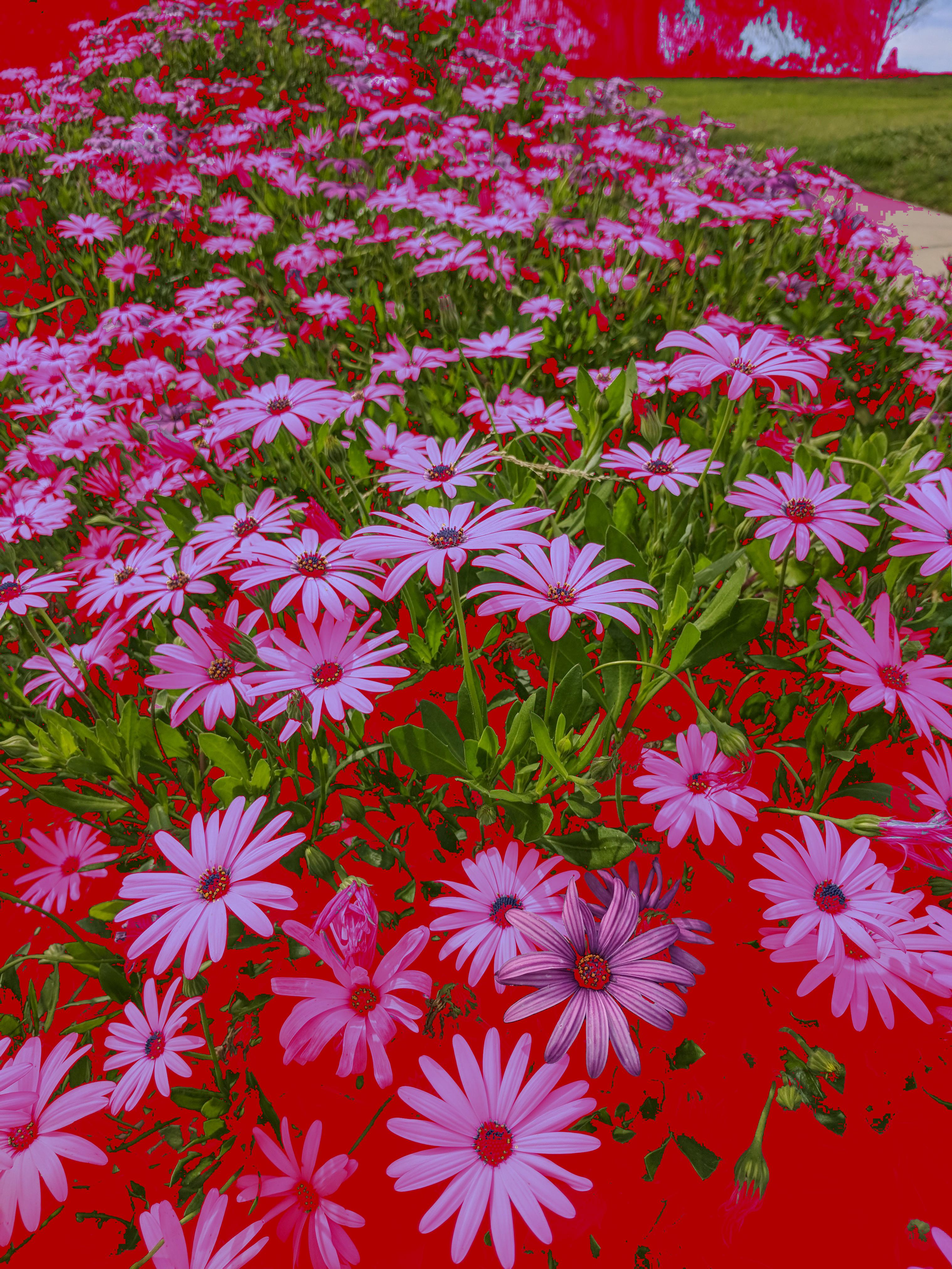
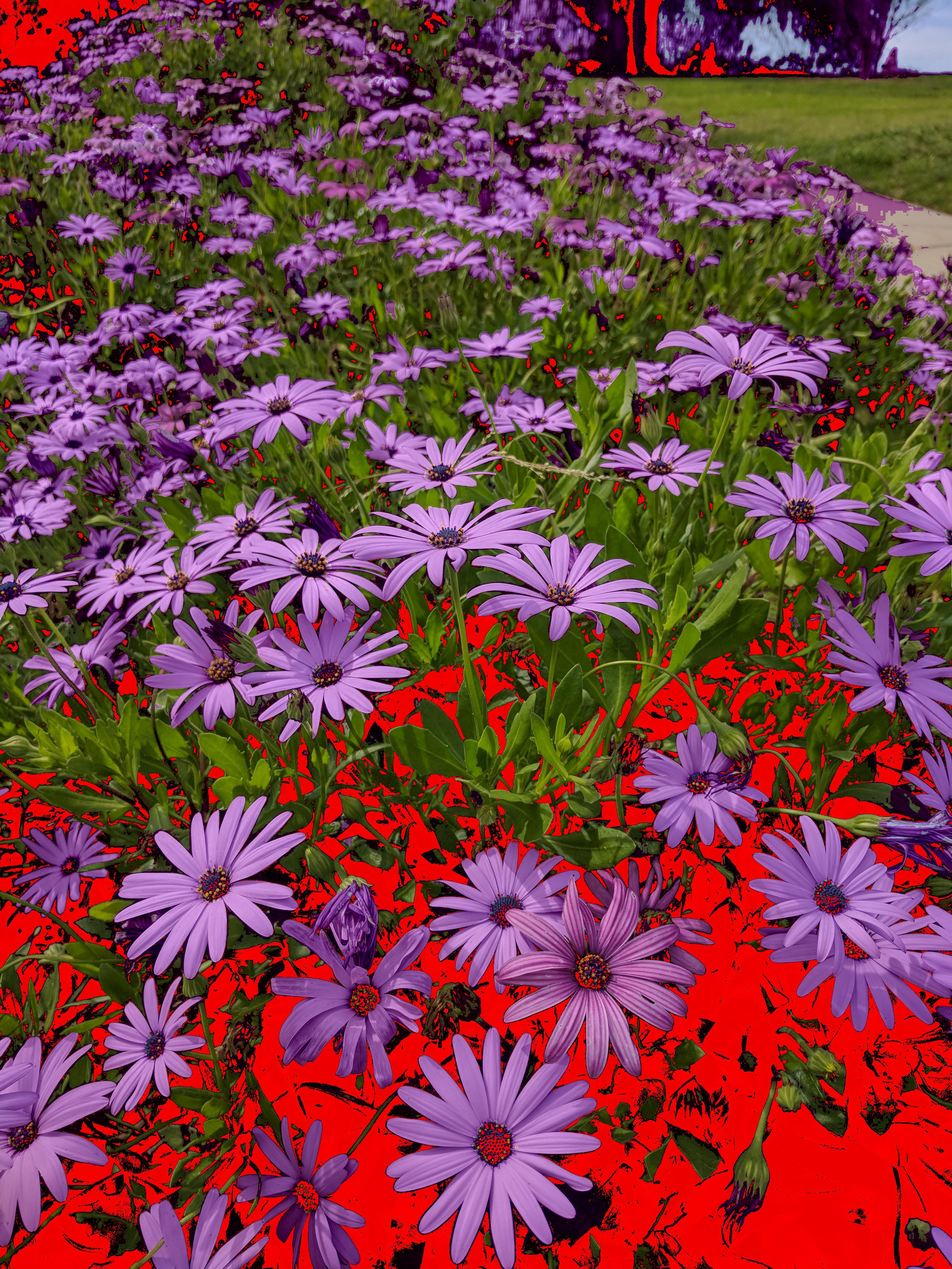
done

diff --git a/PerformanceSis/thread_graph_thingy/Main.java b/PerformanceSis/thread_graph_thingy/Main.java
@@ -19,16 +19,30 @@ public class Main {
         // recolorirUmaThread(ImagemOriginal, ImagemResultado);
 
         File outputFile = new File(ARQUIVO_DESTINO);
-        for (int i = 1; i <= 15; i++) {
+        int numberOfThreads = 6;
+        for (int i = 1; i <= 10; i++) {
             long startTime = System.currentTimeMillis();
-            recolorMultithreaded(ImagemOriginal, ImagemResultado, i);
+            recolorMultithreaded(ImagemOriginal, ImagemResultado, numberOfThreads, i);
             long endTime = System.currentTimeMillis();
             long duration = endTime - startTime;
             ImageIO.write(ImagemResultado, "jpg", outputFile);
-            // System.out.println(String.valueOf(duration));
             System.out.println("Tempo de execução: " + duration + "ms");
-            System.err.println("Threads usadas: " + i);
+            System.err.println("Threads usadas: " + 6);
+            System.out.println("Imagem reudiza em: " + i + "x");
+        }
 
+        System.out.println("Processando com uma thread");
+
+        // single-threaded example
+        for (int i = 1; i <= 10; i++) {
+            long startTime = System.currentTimeMillis();
+            recolorMultithreaded(ImagemOriginal, ImagemResultado, 1, i);
+            long endTime = System.currentTimeMillis();
+            long duration = endTime - startTime;
+            ImageIO.write(ImagemResultado, "jpg", outputFile);
+            System.out.println("Tempo de execução: " + duration + "ms");
+            System.err.println("Threads usadas: " + 1);
+            System.out.println("Imagem reudiza em: " + i + "x");
         }
         // int numberOfThreads = 4;
         // recolorMultithreaded(ImagemOriginal, ImagemResultado, numberOfThreads);
@@ -54,12 +68,11 @@ public class Main {
     }
 
     public static void recolorMultithreaded(BufferedImage ImagemOriginal,
-            BufferedImage ImagemResultado, int numberOfThreads) {
+            BufferedImage ImagemResultado, int numberOfThreads, int divideBy) {
         // lista de threads usadas pra executar o código
         List<Thread> threads = new ArrayList<>();
-        int width = ImagemOriginal.getWidth();
-        // fracionando a imagem por altura, separando pelo número de threads
-        int height = ImagemOriginal.getHeight() / numberOfThreads;
+        int width = ImagemOriginal.getWidth() / divideBy;
+        int height = ImagemOriginal.getHeight() / (numberOfThreads * divideBy);
 
         for (int i = 0; i < numberOfThreads; i++) {
             final int threadMultiplier = i;
@@ -113,9 +126,8 @@ public class Main {
         // vermelho em 10; o de verde diminuir 80, azul dimiuir 20
         if (ehNivelDeCinza(red, green, blue)) {
             // para n o exceder o valor m ximo (255) pegamos o min� �
-            // newRed = Math.min(255, red + 220);
-            newRed = 177;
-            newGreen = Math.max(0, green - 80);
+            newRed = Math.min(255, red - 22);
+            newGreen = Math.max(0, green - 20);
             // para n o passar o 0 pegamos o max�
             newBlue = Math.max(0, blue - 10);
         } else {
